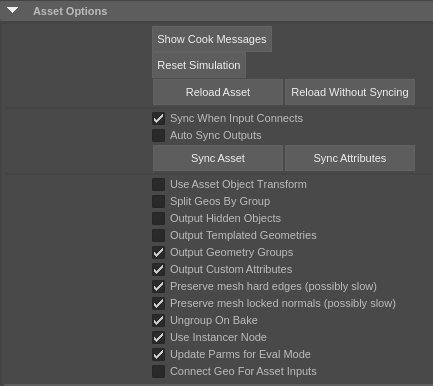
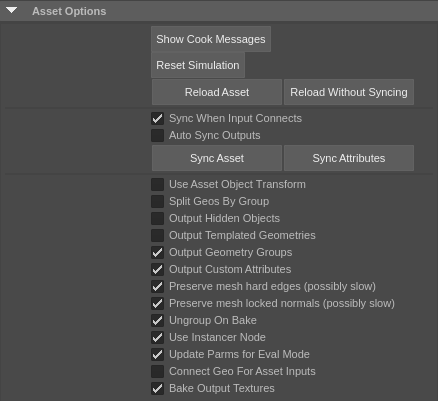
backport r334959 r334995 add option for not baking textures to file to improve performance when the textures aren't being viewed

diff --git a/Asset.C b/Asset.C
@@ -936,6 +936,7 @@ void
 Asset::computeMaterial(
         const MPlug& plug,
         MDataBlock& data,
+	AssetNodeOptions::AccessorDataBlock &options,
         bool &needToSyncOutputs
         )
 {
@@ -957,7 +958,7 @@ Asset::computeMaterial(
         MPlug materialPlug = materialsPlug.elementByLogicalIndex(i);
         MDataHandle materialHandle = data.outputValue(materialPlug);
 
-        myMaterials[i]->compute(myTime, materialPlug, data, materialHandle);
+        myMaterials[i]->compute(myTime, materialPlug, data, materialHandle, options.bakeOutputTextures());
     }
 }
 
@@ -1142,7 +1143,9 @@ Asset::compute(
             options,
             needToSyncOutputs);
 
-    computeMaterial(plug, data, needToSyncOutputs);
+    computeMaterial(plug, data,
+            options,
+	    needToSyncOutputs);
 
     return stat;
 }

diff --git a/OutputMaterial.C b/OutputMaterial.C
@@ -18,7 +18,8 @@ OutputMaterial::compute(
         const MTime &time,
         const MPlug &materialPlug,
         MDataBlock &data,
-        MDataHandle &materialHandle
+        MDataHandle &materialHandle,
+	bool bakeTexture
         )
 {
     HAPI_Result hapiResult;
@@ -155,9 +156,9 @@ OutputMaterial::compute(
 
             bool hasTextureSource = ((std::string)Util::HAPIString(texturePathSH)).size() > 0;
             bool canRenderTexture = false;
-            if(hasTextureSource)
+            if(hasTextureSource && bakeTexture)
             {
-                // this could fail if texture parameter is empty
+               // this could fail if texture parameter is empty
                 hapiResult = HAPI_RenderTextureToImage(
                         Util::theHAPISession.get(),
                         myNodeId,

diff --git a/AssetNodeOptions.h b/AssetNodeOptions.h
@@ -19,6 +19,7 @@ NODE_OPTION(outputMeshPreserveLockedNormals, bool, true)
 NODE_OPTION(ungroupOnBake, bool, true)
 NODE_OPTION(updateParmsForEvalMode, bool, true)
 NODE_OPTION(connectGeoForAssetInputs, bool, false)
+NODE_OPTION(bakeOutputTextures, bool, true)
 
 NODE_OPTION(useInstancerNode, bool, true)
 

diff --git a/OutputMaterial.h b/OutputMaterial.h
@@ -19,7 +19,8 @@ public:
             const MTime &time,
             const MPlug &materialPlug,
             MDataBlock &data,
-            MDataHandle &materialHandle
+            MDataHandle &materialHandle,
+	    bool bakeTexture
             );
 private:
     void update(MDataHandle &materialHandle);

diff --git a/Asset.h b/Asset.h
@@ -94,6 +94,7 @@ class Asset {
         void computeMaterial(
                 const MPlug& plug,
                 MDataBlock& data,
+                AssetNodeOptions::AccessorDataBlock &options,
                 bool &needToSyncOutputs
                 );
 
